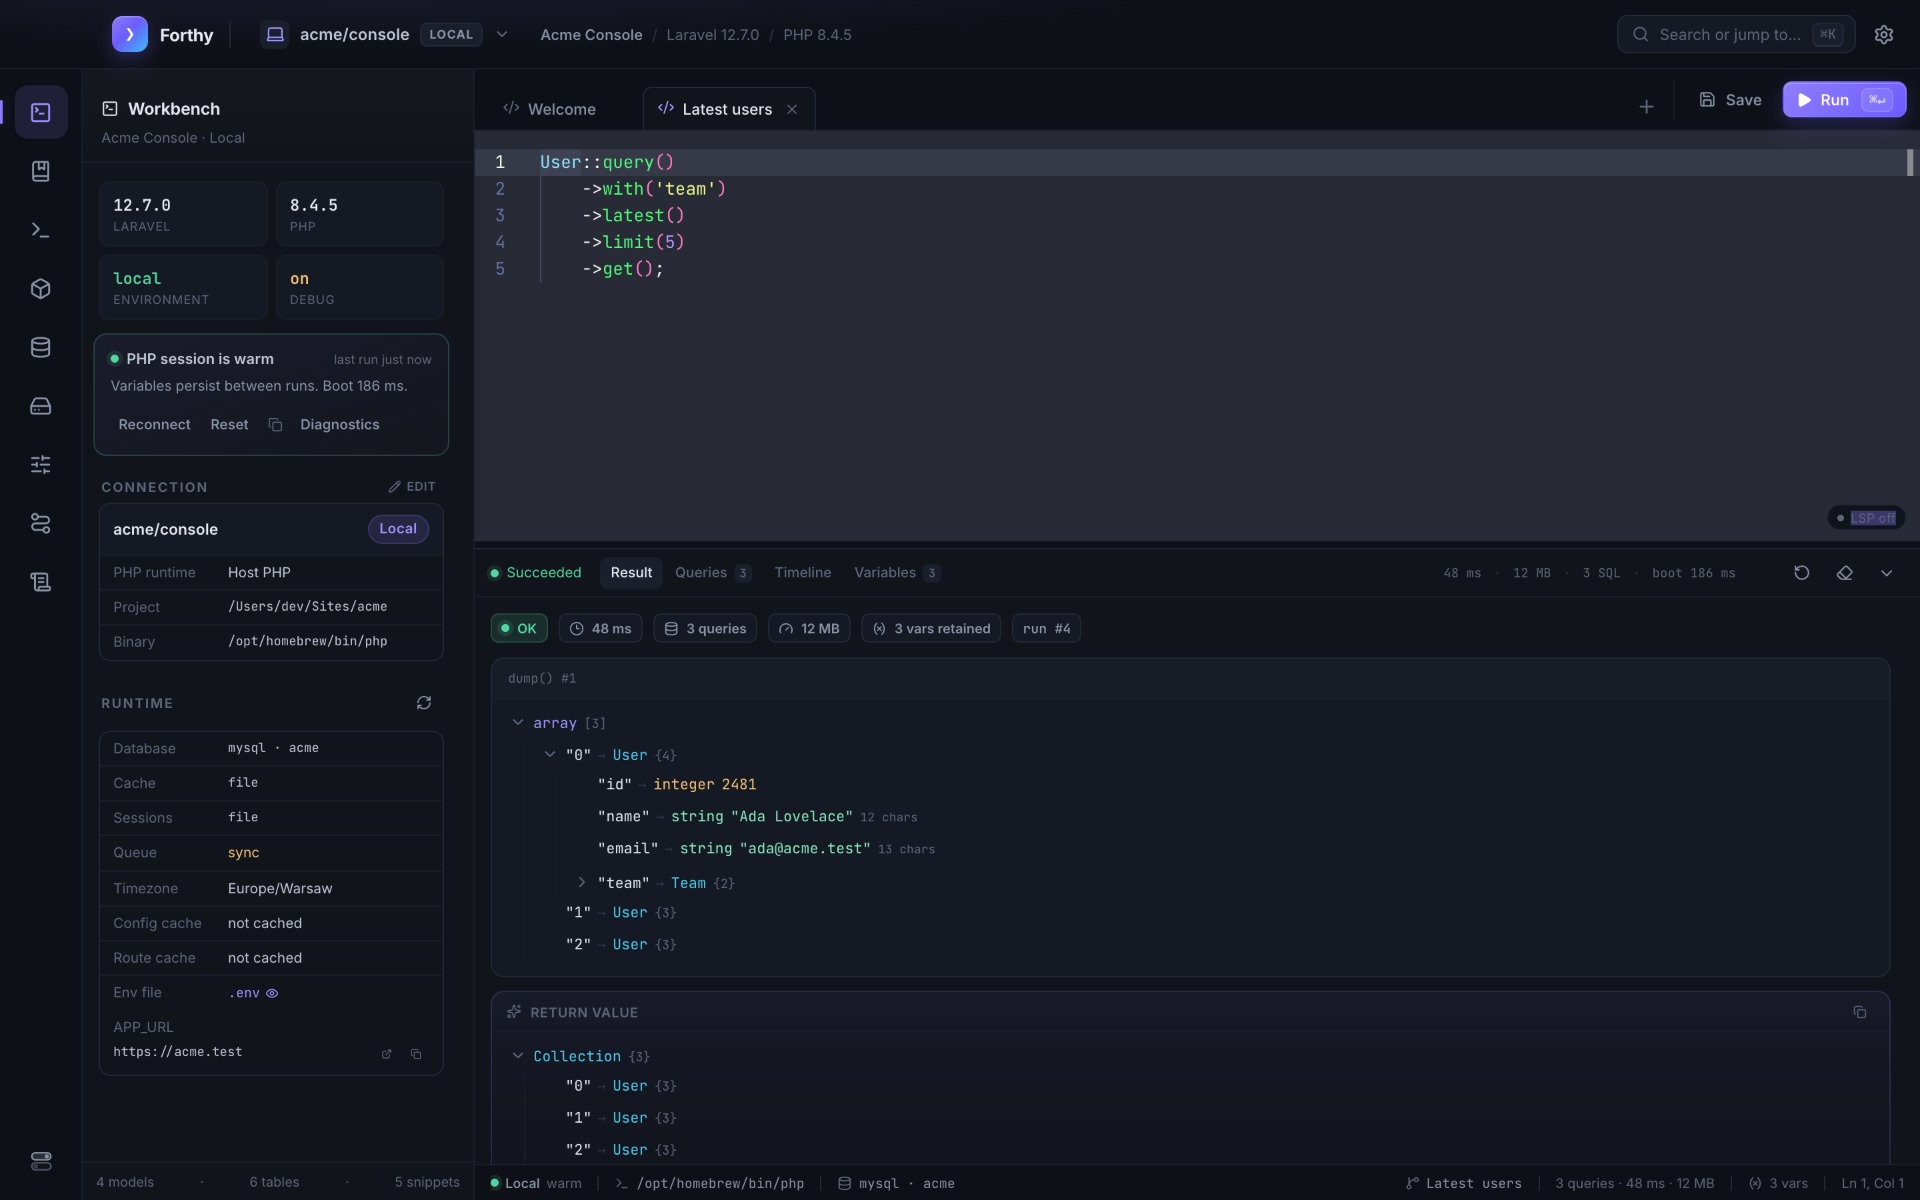
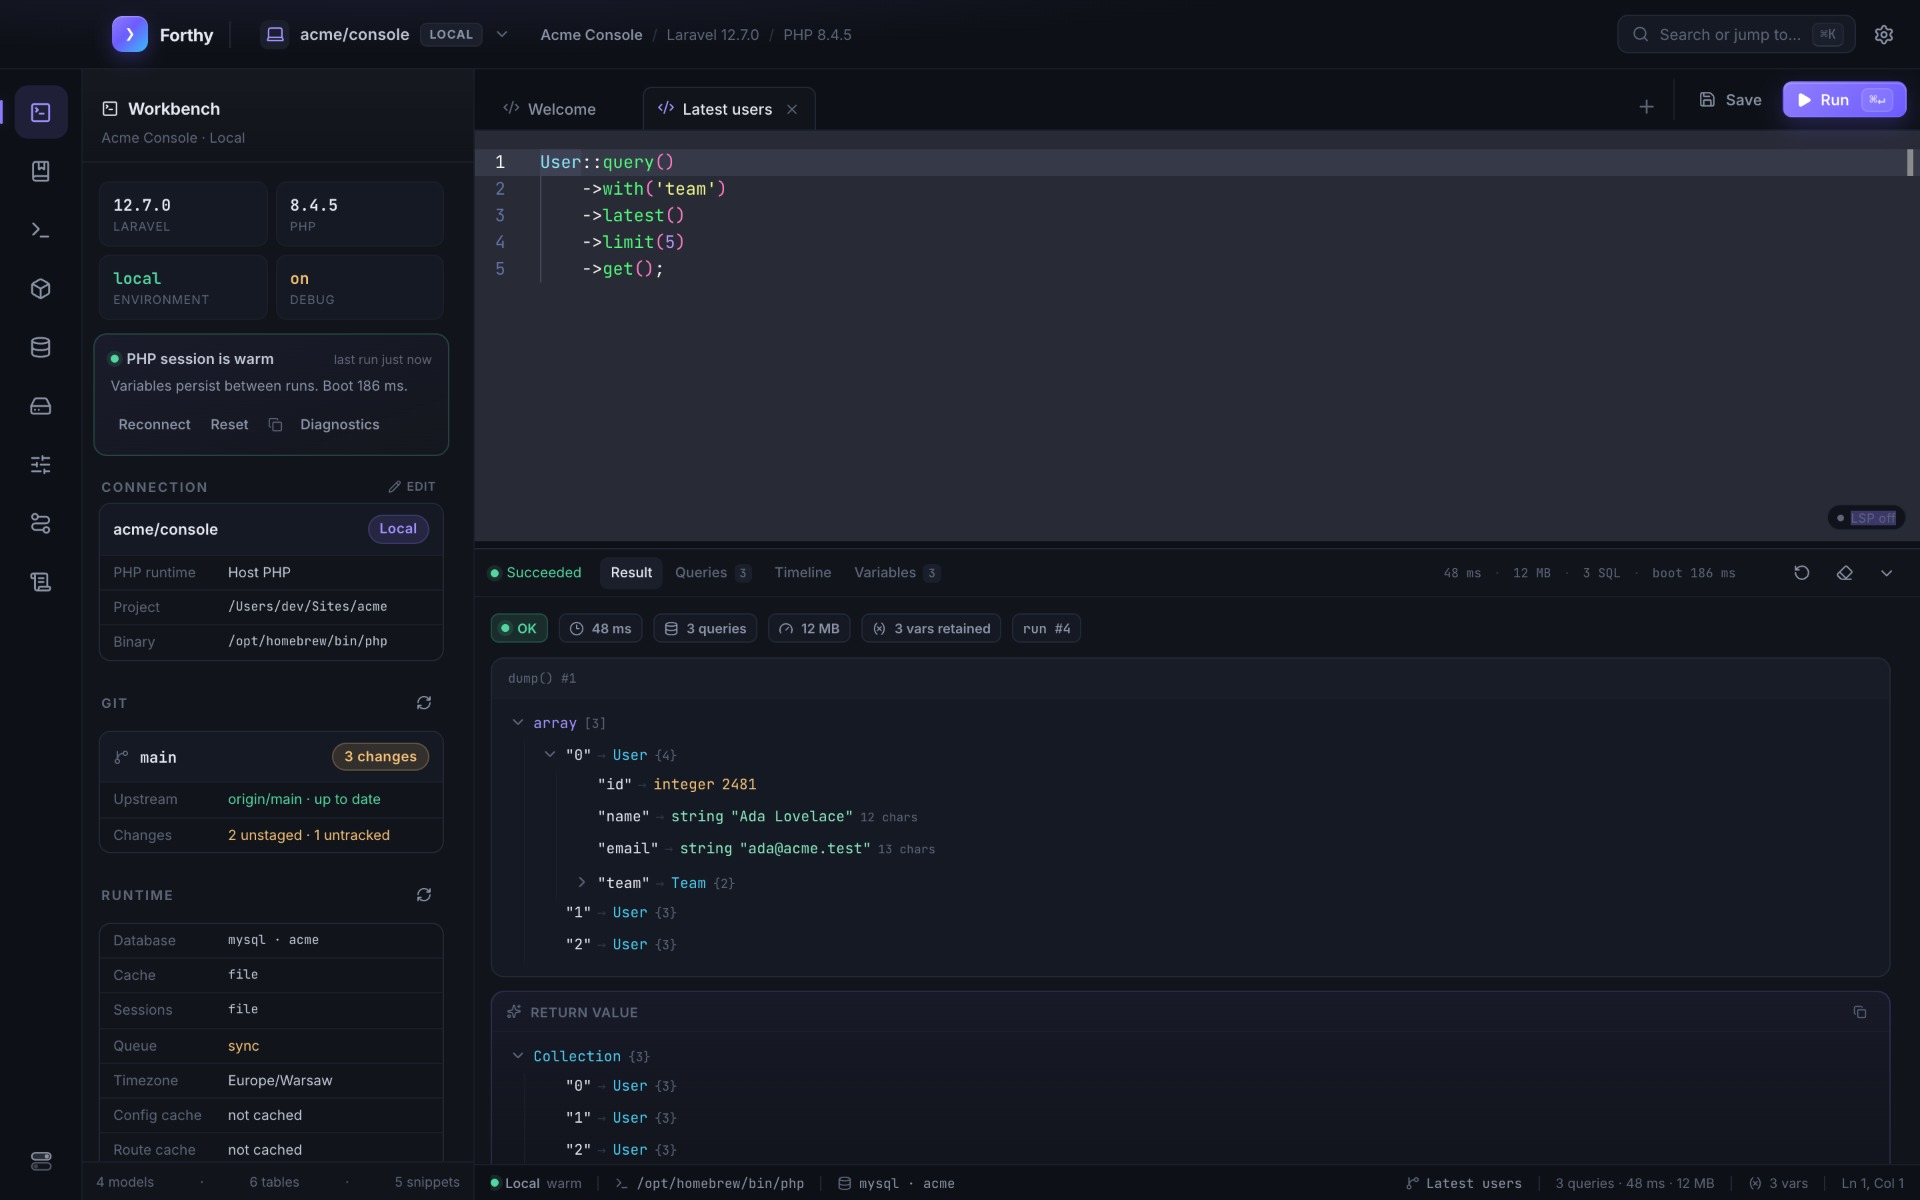
docs: release 0.12.3

diff --git a/site/index.html b/site/index.html
@@ -14,7 +14,7 @@
 
     <link rel="icon" href="favicon.svg" type="image/svg+xml" />
     <link rel="apple-touch-icon" href="apple-touch-icon.png" />
-    <link rel="stylesheet" href="styles.css?v=0.12.2" />
+    <link rel="stylesheet" href="styles.css?v=0.12.3" />
 
     <meta property="og:type" content="website" />
     <meta property="og:site_name" content="Forthy" />
@@ -36,7 +36,7 @@
     />
     <meta name="twitter:image" content="https://stealthpro.github.io/forthy-app/og.jpg" />
 
-    <script src="site.js?v=0.12.2" defer></script>
+    <script src="site.js?v=0.12.3" defer></script>
   </head>
   <body>
     <a class="skip-link" href="#main">Skip to content</a>
@@ -110,7 +110,7 @@
                 href="https://github.com/stealthpro/forthy-app/releases/latest/download/Forthy-macos-aarch64.zip"
               >
                 Download for macOS
-                <span class="button-note">v<span data-version>0.12.2</span> · arm64</span>
+                <span class="button-note">v<span data-version>0.12.3</span> · arm64</span>
               </a>
               <a class="button button-ghost" href="https://github.com/stealthpro/forthy-app">
                 View on GitHub
@@ -493,7 +493,7 @@
               href="https://github.com/stealthpro/forthy-app/releases/latest/download/Forthy-macos-aarch64.zip"
             >
               Download Forthy
-              <span class="button-note">v<span data-version>0.12.2</span> · Apple Silicon</span>
+              <span class="button-note">v<span data-version>0.12.3</span> · Apple Silicon</span>
             </a>
             <p class="fine-print">
               <a href="https://github.com/stealthpro/forthy-app/releases">All releases</a> ·

diff --git a/README.md b/README.md
@@ -41,9 +41,12 @@ shasum -a 256 -c Forthy-macos-aarch64.zip.sha256
   download any folder as an archive, upload with a destination-first dialog, and delete a
   file or a whole folder after a confirmation that counts what goes with it. `.gitignore`,
   `.env`-style placeholders and Laravel's other system files stay locked.
-- **Workbench** — a connection overview of the real target and runtime. The project
-  `.env` opens from the Runtime card in a read-only modal: secret-looking values are
-  masked until you reveal them, and the file never turns into an editor tab.
+- **Workbench** — a connection overview of the real target and runtime, plus the
+  project's git state: repository or not, the current branch (or the detached commit),
+  the tracked upstream and ahead/behind, and staged, unstaged, untracked and conflicted
+  counts. The project `.env` opens from the Runtime card in a read-only modal:
+  secret-looking values are masked until you reveal them, and the file never turns into
+  an editor tab.
 - **Routes and config** — the actual route table and configuration tree of the running
   app.
 - **Logs** — follow channel and daily files, with parsed levels and stack traces.

diff --git a/CHANGELOG.md b/CHANGELOG.md
@@ -1,5 +1,22 @@
 # Changelog
 
+## 0.12.3 — 2026-11-18
+
+The Workbench shows the project's git status.
+
+- **Git card** — the first module now lists whether the project is a git repository, the
+  current branch (or the detached commit), the tracked upstream and how far it is ahead or
+  behind, plus how many files are staged, unstaged, untracked or conflicted.
+- **One read, no Laravel boot** — the card is read with a single `git status` on the host
+  for Local and Docker-with-folder connections and inside the runtime for SSH, Kubernetes
+  and container-only Docker. A folder that is not a repository (or a runtime without git)
+  is shown as a note, not an error, and the refresh button re-reads it.
+- **Ownership hint** — when git refuses a repository that belongs to another user, the
+  card names the `git config --global --add safe.directory <path>` command instead of
+  repeating git's raw message.
+- The Workbench screenshot was re-taken for the new card; the version stays hidden in
+  every frame.
+
 ## 0.12.2 — 2026-11-18
 
 The titlebar shows the running version and looks for updates more often.
